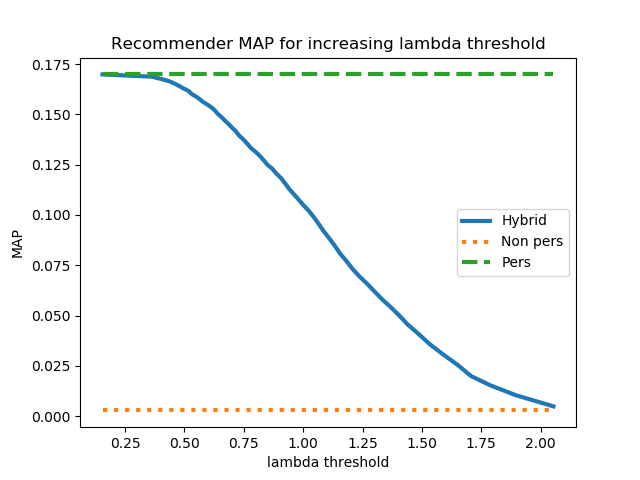
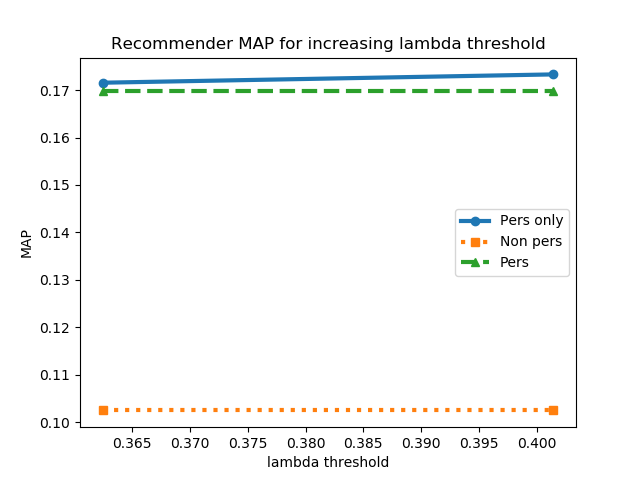
.

diff --git a/run_performance_lambda_threshold.py b/run_performance_lambda_threshold.py
@@ -25,7 +25,7 @@ from data.DataSplitter import DataSplitter_Warm
 import matplotlib.pyplot as plt
 
 import numpy as np
-import pickle
+import pickle, itertools
 
 
 if __name__ == '__main__':
@@ -55,9 +55,15 @@ if __name__ == '__main__':
 
     non_personalized_recommender.fit()
     personalized_recommender.fit()
-    recommender = ItemBasedLambdaDiscriminantRecommender(URM_train, non_personalized_recommender,
-                                                         personalized_recommender, URM_validation = URM_validation)
+    hybrid_all = ItemBasedLambdaDiscriminantRecommender(URM_train,
+                                                        non_personalized_recommender = non_personalized_recommender,
+                                                        personalized_recommender = personalized_recommender,
+                                                        URM_validation = URM_validation)
 
+    hybrid_pers_only = ItemBasedLambdaDiscriminantRecommender(URM_train,
+                                                        non_personalized_recommender = None,
+                                                        personalized_recommender = personalized_recommender,
+                                                        URM_validation = URM_validation)
 
     dataset_name = dataReader_class.DATASET_SUBFOLDER[:-1]
 
@@ -69,16 +75,20 @@ if __name__ == '__main__':
     namePrefix = "Lambda_BPR_Cython_{}_best_parameters".format(dataset_name)
 
     try:
-        recommender.loadModel("results/", namePrefix=namePrefix)
+        hybrid_all.loadModel("results/", namePrefix=namePrefix)
     except:
-        recommender.fit(**optimal_params)
-        recommender.saveModel("results/", namePrefix=namePrefix)
+        hybrid_all.fit(**optimal_params)
+        hybrid_all.saveModel("results/", namePrefix=namePrefix)
 
-    user_lambda = recommender.get_lambda_values()
+    hybrid_pers_only.loadModel("results/", namePrefix=namePrefix)
+
+
+    user_lambda = hybrid_all.get_lambda_values()
     user_lambda = np.sort(user_lambda)
 
 
-    map_performance_over_lambda = []
+    map_performance_hybrid_all = []
+    map_performance_pers_only = []
     x_tick = []
 
 
@@ -99,17 +109,24 @@ if __name__ == '__main__':
 
 
 
-    for lambda_threshold_index in range(0, len(user_lambda), 100):
+    for lambda_threshold_index in range(100, len(user_lambda), 100):
 
         lambda_threshold = user_lambda[lambda_threshold_index]
 
-        recommender.set_lambda_threshold(lambda_threshold)
+        hybrid_all.set_lambda_threshold(lambda_threshold)
+        hybrid_pers_only.set_lambda_threshold(lambda_threshold)
 
-        results_run = recommender.evaluateRecommendations(URM_test, at=5, exclude_seen=True)
+        # results_hybrid_all = hybrid_all.evaluateRecommendations(URM_test, at=5, exclude_seen=True)
+        # print("Lambda threshold is {}, result hybrid all: {}".format(lambda_threshold, results_hybrid_all))
 
-        print("Lambda threshold is {}, results: {}".format(lambda_threshold, results_run))
+        users_to_filter = hybrid_all.get_lambda_values()<lambda_threshold
+        users_to_filter = np.arange(0, len(user_lambda), dtype=np.int)[users_to_filter]
 
-        map_performance_over_lambda.append(results_run["map"])
+        results_pers_only = hybrid_pers_only.evaluateRecommendations(URM_test, at=5, exclude_seen=True, filterCustomUsers=users_to_filter)
+        print("Lambda threshold is {}, result pers only: {}".format(lambda_threshold, results_pers_only))
+
+        #map_performance_hybrid_all.append(results_hybrid_all["map"])
+        map_performance_pers_only.append(results_pers_only["map"])
         x_tick.append(lambda_threshold)
 
 
@@ -119,15 +136,21 @@ if __name__ == '__main__':
         plt.ylabel("MAP")
         plt.title("Recommender MAP for increasing lambda threshold")
 
+        marker_list = ['o', 's', '^', 'v', 'D']
+        marker_iterator_local = itertools.cycle(marker_list)
 
-        plt.plot(x_tick, map_performance_over_lambda, linewidth=3, label="Hybrid",
-                 linestyle = "-")
+
+        # plt.plot(x_tick, map_performance_hybrid_all, linewidth=3, label="Hybrid all",
+        #          linestyle = "-", marker = marker_iterator_local.__next__())
+
+        plt.plot(x_tick, map_performance_pers_only, linewidth=3, label="Pers only",
+                 linestyle = "-", marker = marker_iterator_local.__next__())
 
         plt.plot(x_tick, np.ones_like(x_tick)*results_run_non_pers["map"], linewidth=3, label="Non pers",
-                 linestyle = ":")
+                 linestyle = ":", marker = marker_iterator_local.__next__())
 
         plt.plot(x_tick, np.ones_like(x_tick)*results_run_pers["map"], linewidth=3, label="Pers",
-                 linestyle = "--")
+                 linestyle = "--", marker = marker_iterator_local.__next__())
 
         plt.legend()
 

diff --git a/Recommenders/Item_based_lambda_discriminant.py b/Recommenders/Item_based_lambda_discriminant.py
@@ -23,7 +23,7 @@ class ItemBasedLambdaDiscriminantRecommender(Similarity_Matrix_Recommender, Reco
     RECOMMENDER_NAME = "ItemBasedLambdaDiscriminantRecommender"
 
 
-    def __init__(self, URM_train, non_personalized_recommender, personalized_recommender, URM_validation = None):
+    def __init__(self, URM_train, non_personalized_recommender = None, personalized_recommender = None, URM_validation = None):
         super(ItemBasedLambdaDiscriminantRecommender, self).__init__()
 
         self.URM_train = check_matrix(URM_train.copy(), 'csr')
@@ -71,13 +71,21 @@ class ItemBasedLambdaDiscriminantRecommender(Similarity_Matrix_Recommender, Reco
     def recommend(self, user_id, n=None, exclude_seen=True, filterTopPop = False, filterCustomItems = False):
 
         if self.user_lambda[user_id] >= self.lambda_threshold:
-            return self.personalized_recommender.recommend(user_id, n=n, exclude_seen=exclude_seen,
-                                                           filterTopPop = filterTopPop, filterCustomItems = filterCustomItems)
+
+            if self.personalized_recommender is not None:
+
+                return self.personalized_recommender.recommend(user_id, n=n, exclude_seen=exclude_seen,
+                                                               filterTopPop = filterTopPop, filterCustomItems = filterCustomItems)
+            else:
+                return np.array([])
 
         else:
-            return self.non_personalized_recommender.recommend(user_id, n=n, exclude_seen=exclude_seen,
-                                                               filterTopPop = filterTopPop, filterCustomItems = filterCustomItems)
+            if self.non_personalized_recommender is not None:
 
+                return self.non_personalized_recommender.recommend(user_id, n=n, exclude_seen=exclude_seen,
+                                                               filterTopPop = filterTopPop, filterCustomItems = filterCustomItems)
+            else:
+                return np.array([])
 
 
 

diff --git a/run_ParameterSearch.py b/run_ParameterSearch.py
@@ -49,9 +49,9 @@ def runParameterSearch(URM_train, URM_validation, logFilePath ="results/"):
     hyperparamethers_range_dictionary = {}
     hyperparamethers_range_dictionary["pseudoInv"] = [True]
     hyperparamethers_range_dictionary["epochs"] = [200]
-    #hyperparamethers_range_dictionary["rcond"] = list(np.arange(0.005, 0.3, 0.005))
-    hyperparamethers_range_dictionary["low_ram"] = [True]
-    hyperparamethers_range_dictionary["k"] = list(range(5,260,10))
+    hyperparamethers_range_dictionary["rcond"] = list(np.arange(0.005, 0.3, 0.005))
+    hyperparamethers_range_dictionary["low_ram"] = [False]
+    #hyperparamethers_range_dictionary["k"] = list(range(5,260,10))
     hyperparamethers_range_dictionary["learning_rate"] = [0.01]
     hyperparamethers_range_dictionary["sgd_mode"] = ["adagrad"]
     hyperparamethers_range_dictionary["batch_size"] = [1]
@@ -97,7 +97,7 @@ import os
 if __name__ == '__main__':
 
 
-    dataReader_class = NetflixEnhancedReader
+    dataReader_class = Movielens1MReader
 
     dataSplitter = DataSplitter_Warm(dataReader_class)
 

diff --git a/Recommenders/Base/non_personalized.py b/Recommenders/Base/non_personalized.py
@@ -25,15 +25,13 @@ class TopPop(Recommender):
 
     def fit(self):
 
-        item_pop = (self.URM_train > 0).sum(axis=0)  # this command returns a numpy.matrix of size (1, nitems)
-        item_pop = np.asarray(item_pop).squeeze()  # necessary to convert it into a numpy.array of size (nitems,)
-        self.pop = np.argsort(item_pop)[::-1]
+        self.item_pop = (self.URM_train > 0).sum(axis=0)  # this command returns a numpy.matrix of size (1, nitems)
+        self.item_pop = np.asarray(self.item_pop).squeeze()  # necessary to convert it into a numpy.array of size (nitems,)
 
-        self.URM_train = check_matrix(self.URM_train, 'csr', dtype=np.float32)
 
     def recommend(self, user_id, n=None, exclude_seen=True, filterTopPop = False, filterCustomItems = False):
 
-        scores = np.array(self.pop.copy(), dtype=np.float)
+        scores = np.array(self.item_pop.copy(), dtype=np.float)
 
         if exclude_seen:
             scores = self._filter_seen_on_scores(user_id, scores)

diff --git a/Recommenders/Lambda/Cython/Lambda_BPR_Cython.py b/Recommenders/Lambda/Cython/Lambda_BPR_Cython.py
@@ -218,6 +218,8 @@ class Lambda_BPR_Cython (Similarity_Matrix_Recommender, Recommender):
 
         print("Compiled module saved in subfolder: {}".format(compiledModuleSubfolder))
 
+        #python compileCython.py Lambda_Cython.pyx build_ext --inplace
+
 
 
     def doSaveLambdaAndEvaluate(self,currentEpoch, results_run):
